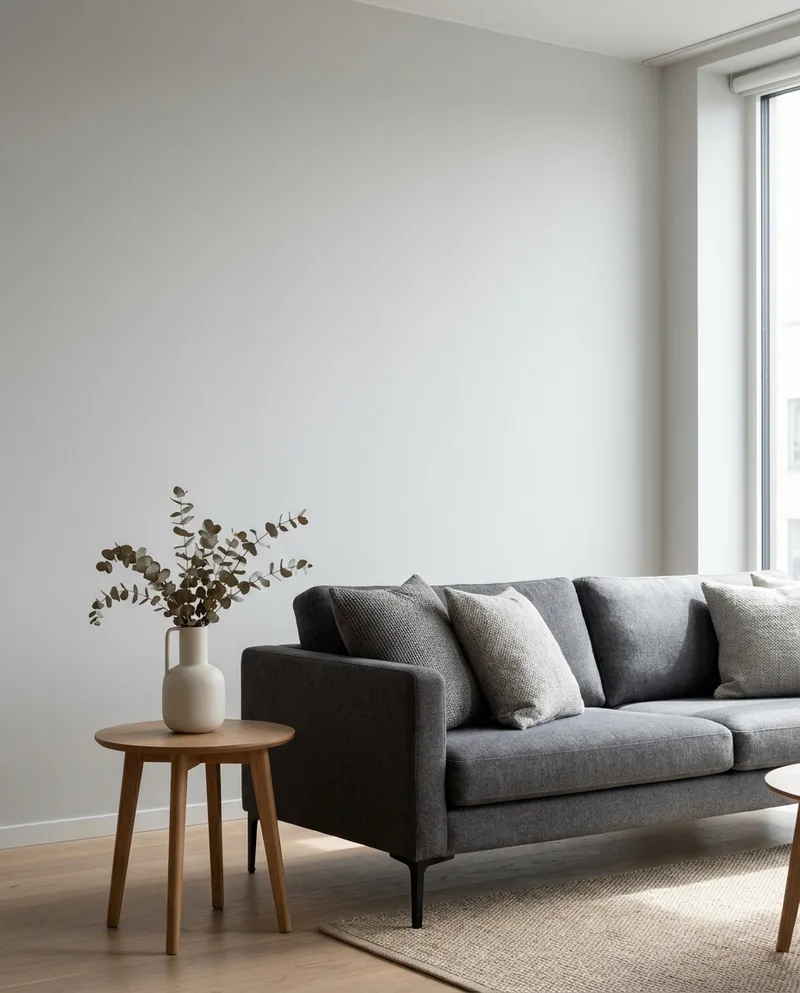
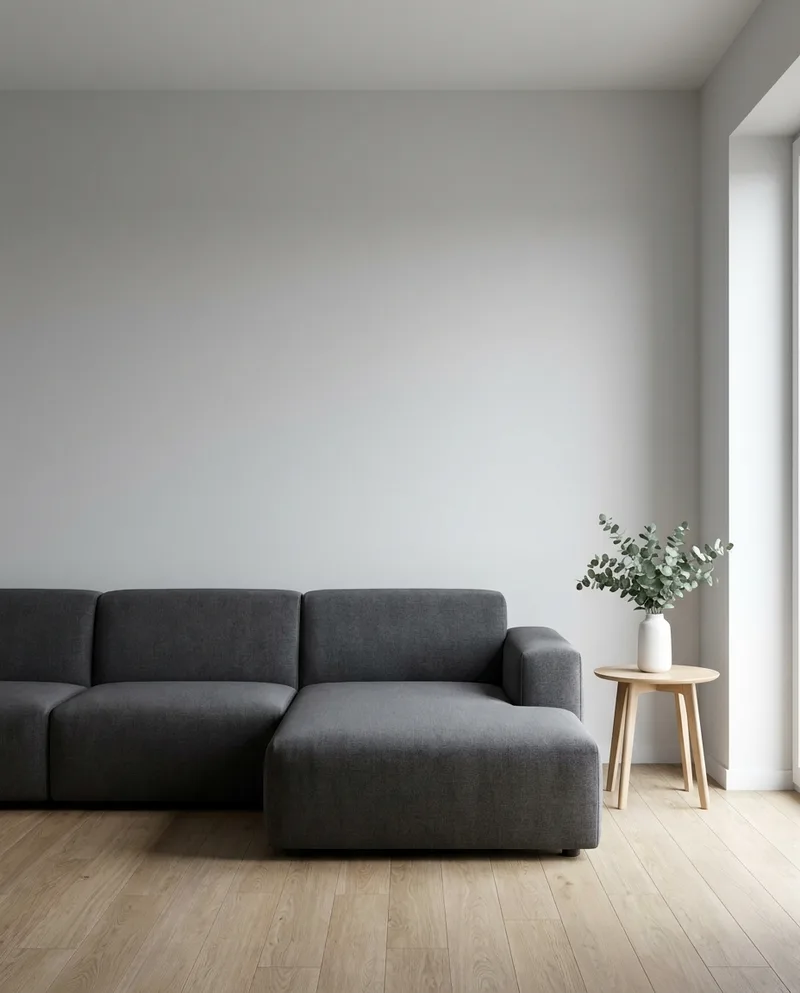
New room photos with completely blank walls
Old photos had a pre-existing canvas on the wall causing
double-overlay. New photos have clean empty walls.
Updated zone positions to match new wall areas.

diff --git a/assets/pdp-portrait-inject.js b/assets/pdp-portrait-inject.js
@@ -103,21 +103,21 @@
   // the actual room photographs)
   var ROOM_SCENES = [
     {
-      // Warm scandinavian — credenza + plant (has blank canvas on wall)
+      // Warm scandinavian — credenza + olive tree, blank wall
       image: 'mockup-room-1.webp',
-      // Blank canvas zone in the photo (percentages)
-      zoneTop: 13,
-      zoneLeft: 18,
-      zoneW: 64,
-      zoneH: 43,
+      // Wall zone above the credenza (percentages of image)
+      zoneTop: 5,
+      zoneLeft: 22,
+      zoneW: 55,
+      zoneH: 48,
     },
     {
-      // Modern living room — gray couch + side table (open wall)
+      // Modern living room — gray sofa + side table, blank wall
       image: 'mockup-room-2.webp',
-      zoneTop: 8,
-      zoneLeft: 20,
-      zoneW: 48,
-      zoneH: 42,
+      zoneTop: 5,
+      zoneLeft: 12,
+      zoneW: 55,
+      zoneH: 45,
     },
   ];
 